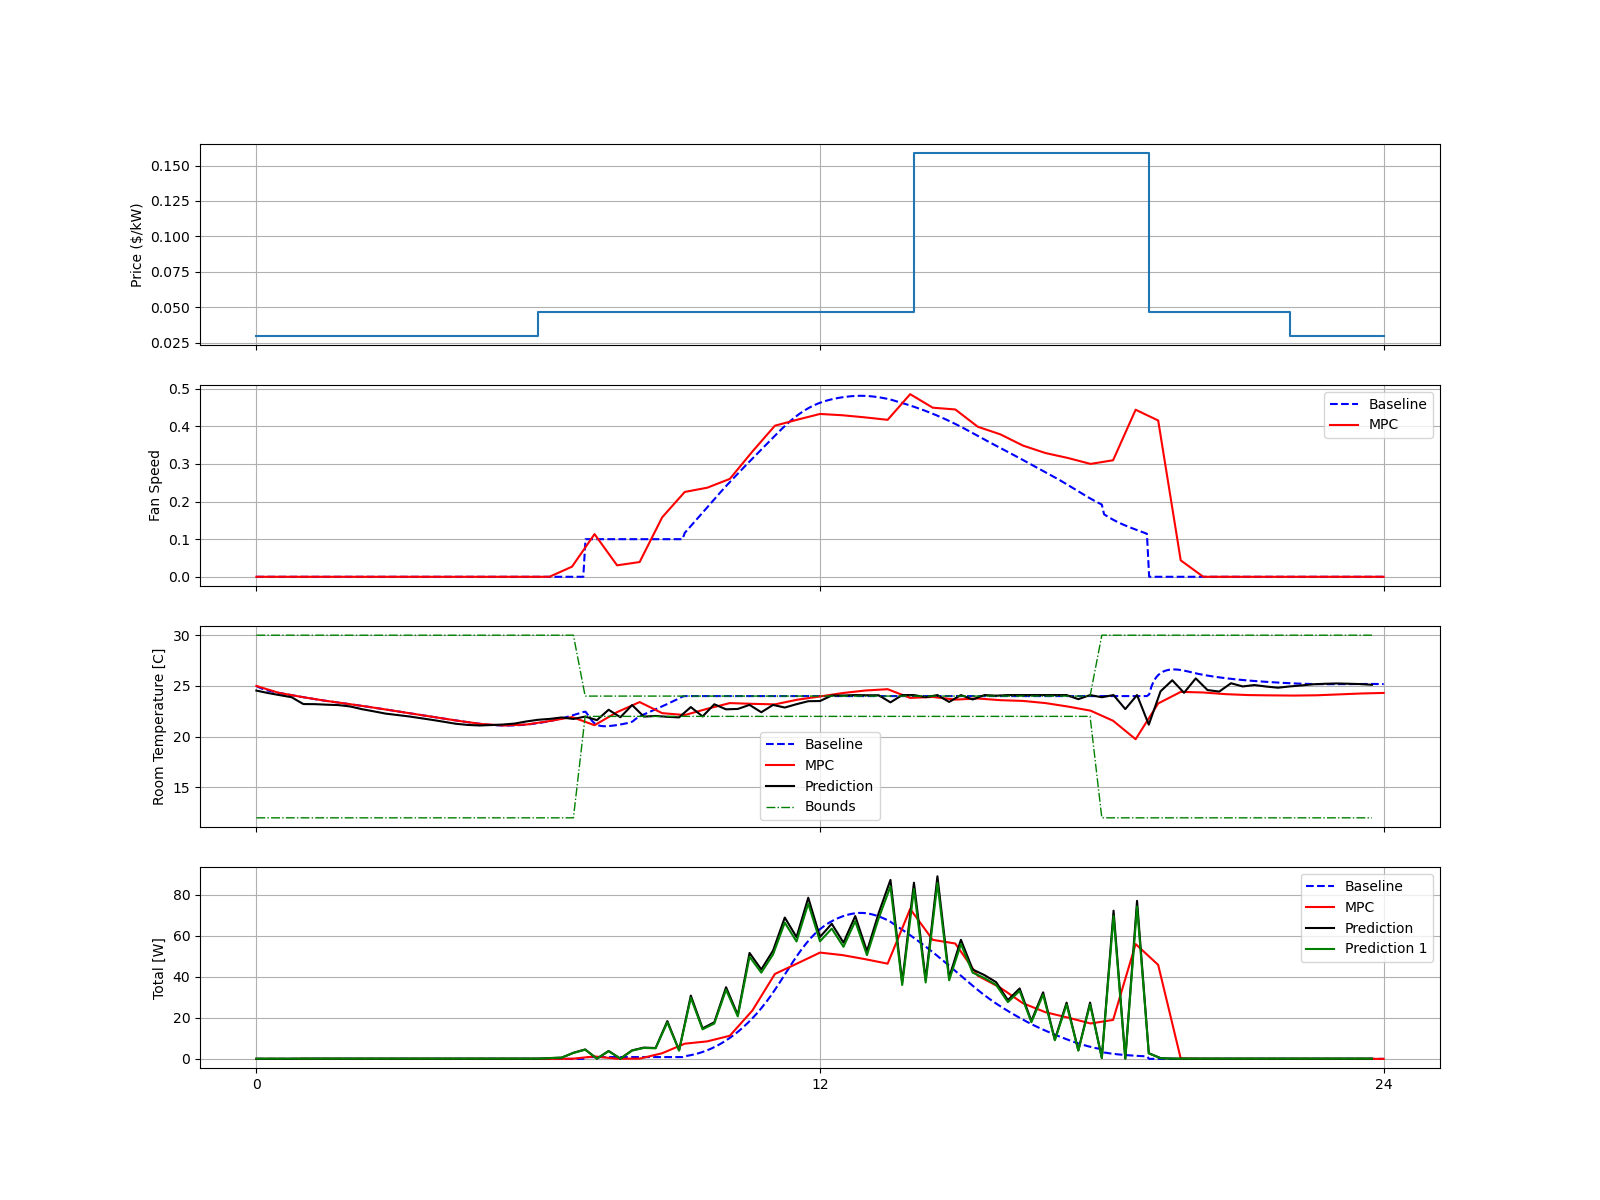
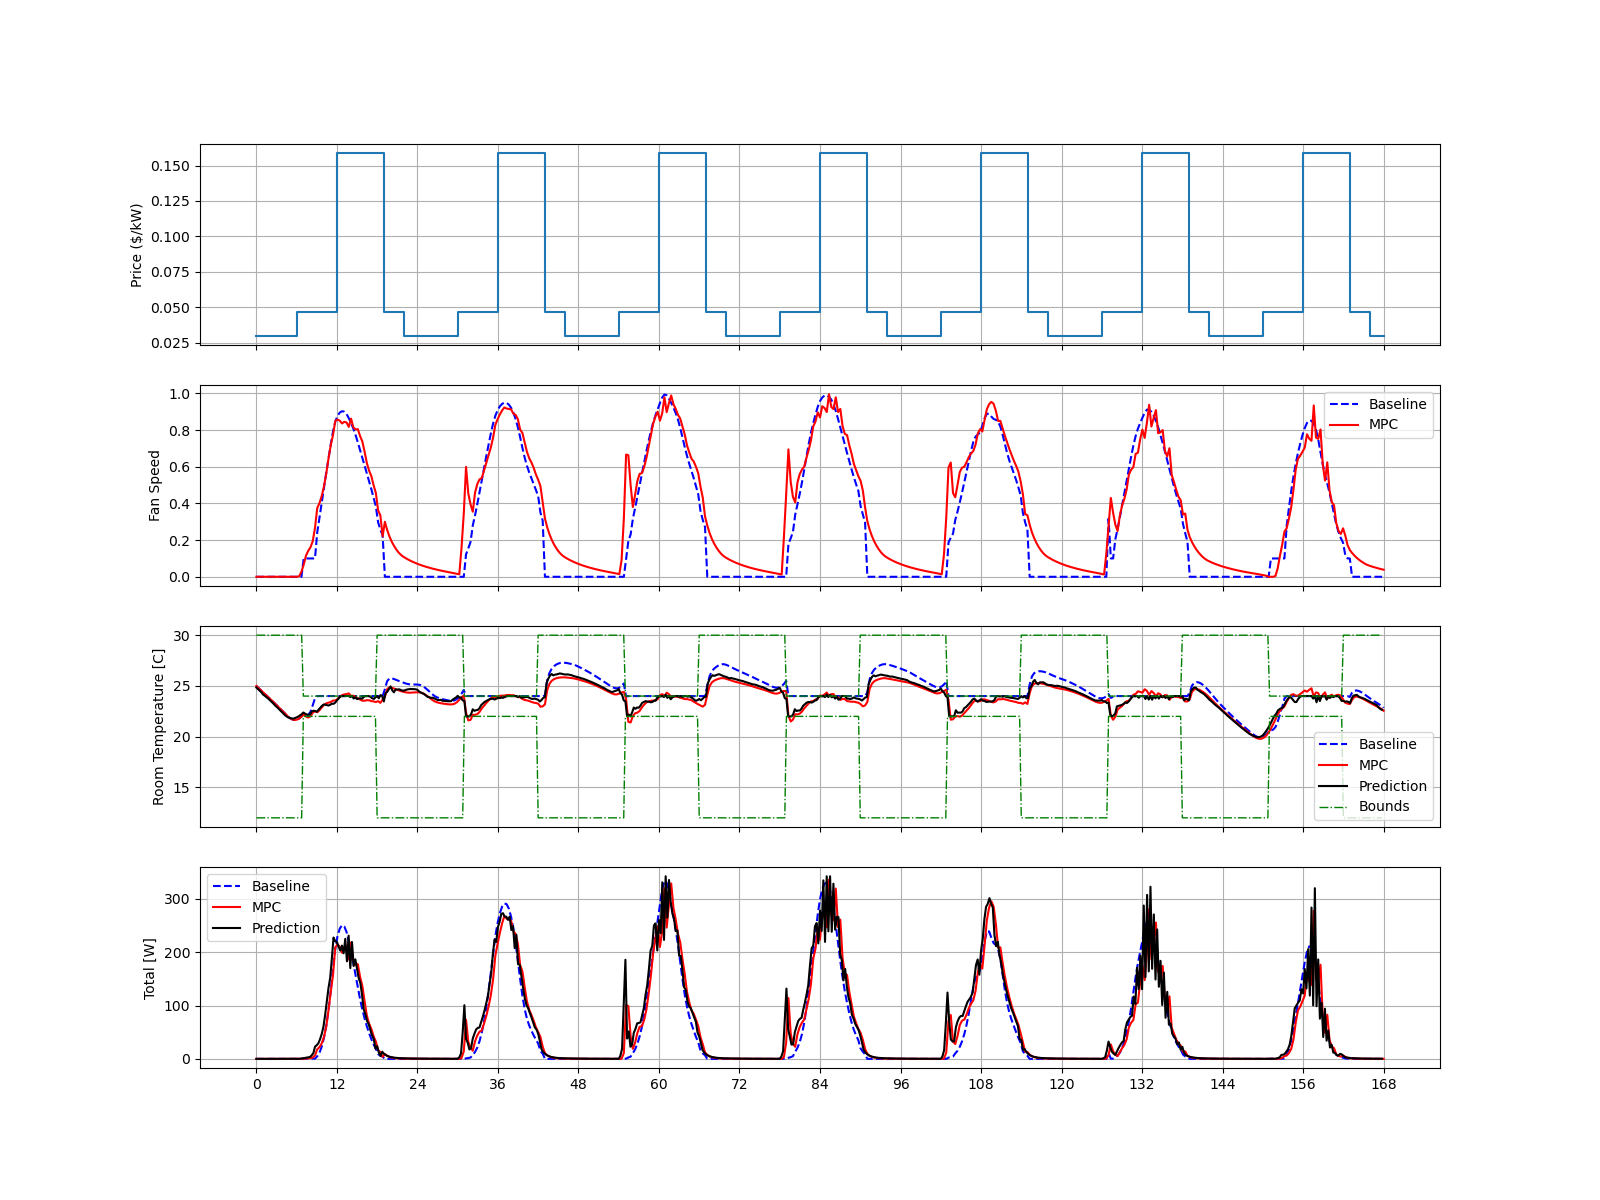
tuning mpc

diff --git a/testcases/mpc/single-zone-fan-power/average-sample/mass_1_24/test_mpc.py b/testcases/mpc/single-zone-fan-power/average-sample/mass_1_24/test_mpc.py
@@ -66,7 +66,7 @@ def get_price(time,dt,PH):
     price_tou = [0.02987, 0.02987, 0.02987, 0.02987, 
         0.02987, 0.02987, 0.04667, 0.04667, 
         0.04667, 0.04667, 0.04667, 0.04667, 
-        0.04667, 0.04667, 0.15877, 0.15877, 
+        0.15877, 0.15877, 0.15877, 0.15877,
         0.15877, 0.15877, 0.15877, 0.04667, 
         0.04667, 0.04667, 0.02987, 0.02987]
     t_ph = np.arange(time,time+dt*PH,dt)
@@ -99,14 +99,14 @@ def get_Toa(time,dt,PH,Toa_year):
 
 ### 0- Simulation setup
 start = 195*24*3600. # 181 - 7/1 
-end = start + 1*24*3600.
+end = start + 7*24*3600.
 
 ### 1- Load virtual building model
 hvac = load_fmu('SingleZoneDamperControl.fmu')
 
 ## fmu settings
 options = hvac.simulate_options()
-options['ncp'] = 50
+options['ncp'] = 100
 options['initialize'] = True
 
 # Warm up FMU simulation settings
@@ -158,7 +158,7 @@ predictor['Toa'] = get_Toa(ts+dt,dt,PH,Toa_year)
 
 ### ==================================
 ### 3- MPC Control Loop
-mFan_nominal=0.75 # kg/s
+mFan_nominal=0.4 # kg/s
 uFan_ini = 0.
 # initialize fan speed for warmup setup
 uFan = uFan_ini

diff --git a/testcases/mpc/single-zone-fan-power/average-sample/mass_1_24/mpc1.py b/testcases/mpc/single-zone-fan-power/average-sample/mass_1_24/mpc1.py
@@ -187,7 +187,7 @@ class mpc_case():
 
         # some mpc settings
         self.n = 2 # number of control variable for each step
-        self.w = [1000., 1., 1.] # weights between energy cost and temperature violation and actions violations
+        self.w = [1., 1., 0.05] # weights between energy cost and temperature violation and actions violations
         self.u_lb = [0.]*self.n
         self.u_ub = [1.,0.1]
         # initialize optimiztion
@@ -227,7 +227,7 @@ class mpc_case():
         P_pred_ph = []
         Tz_his_meas_k = [Tz_meas for Tz_meas in Tz_his_meas]
         To_his_meas_k = [To_meas for To_meas in To_his_meas]
-        mFan_nominal = 0.75 #kg/s
+        mFan_nominal = 0.4 #kg/s
         u_prev = self.x_opt_0
 
         for k in range(self.PH):

diff --git a/testcases/mpc/single-zone-fan-power/average-sample/mass_1_24/mpc_final_run.py b/testcases/mpc/single-zone-fan-power/average-sample/mass_1_24/mpc_final_run.py
@@ -12,7 +12,7 @@ from pyfmi import load_fmu
 
 # simulation setup
 ts = 195*24*3600.#+13*24*3600
-nday = 1
+nday = 7
 period = nday*24*3600.
 te = ts + period
 dt = 15*60.
@@ -52,7 +52,7 @@ mpc = load_fmu('SingleZoneDamperControl.fmu')
 
 ## fmu settings
 options = mpc.simulate_options()
-options['ncp'] = 50
+options['ncp'] = 500
 options['initialize'] = True
 
 ## construct optimal input for fmu
@@ -92,7 +92,7 @@ for i in range(nday):
 price_tou = [0.02987, 0.02987, 0.02987, 0.02987, 
         0.02987, 0.02987, 0.04667, 0.04667, 
         0.04667, 0.04667, 0.04667, 0.04667, 
-        0.04667, 0.04667, 0.15877, 0.15877, 
+        0.15877, 0.15877, 0.15877, 0.15877,
         0.15877, 0.15877, 0.15877, 0.04667, 
         0.04667, 0.04667, 0.02987, 0.02987]*nday
 
